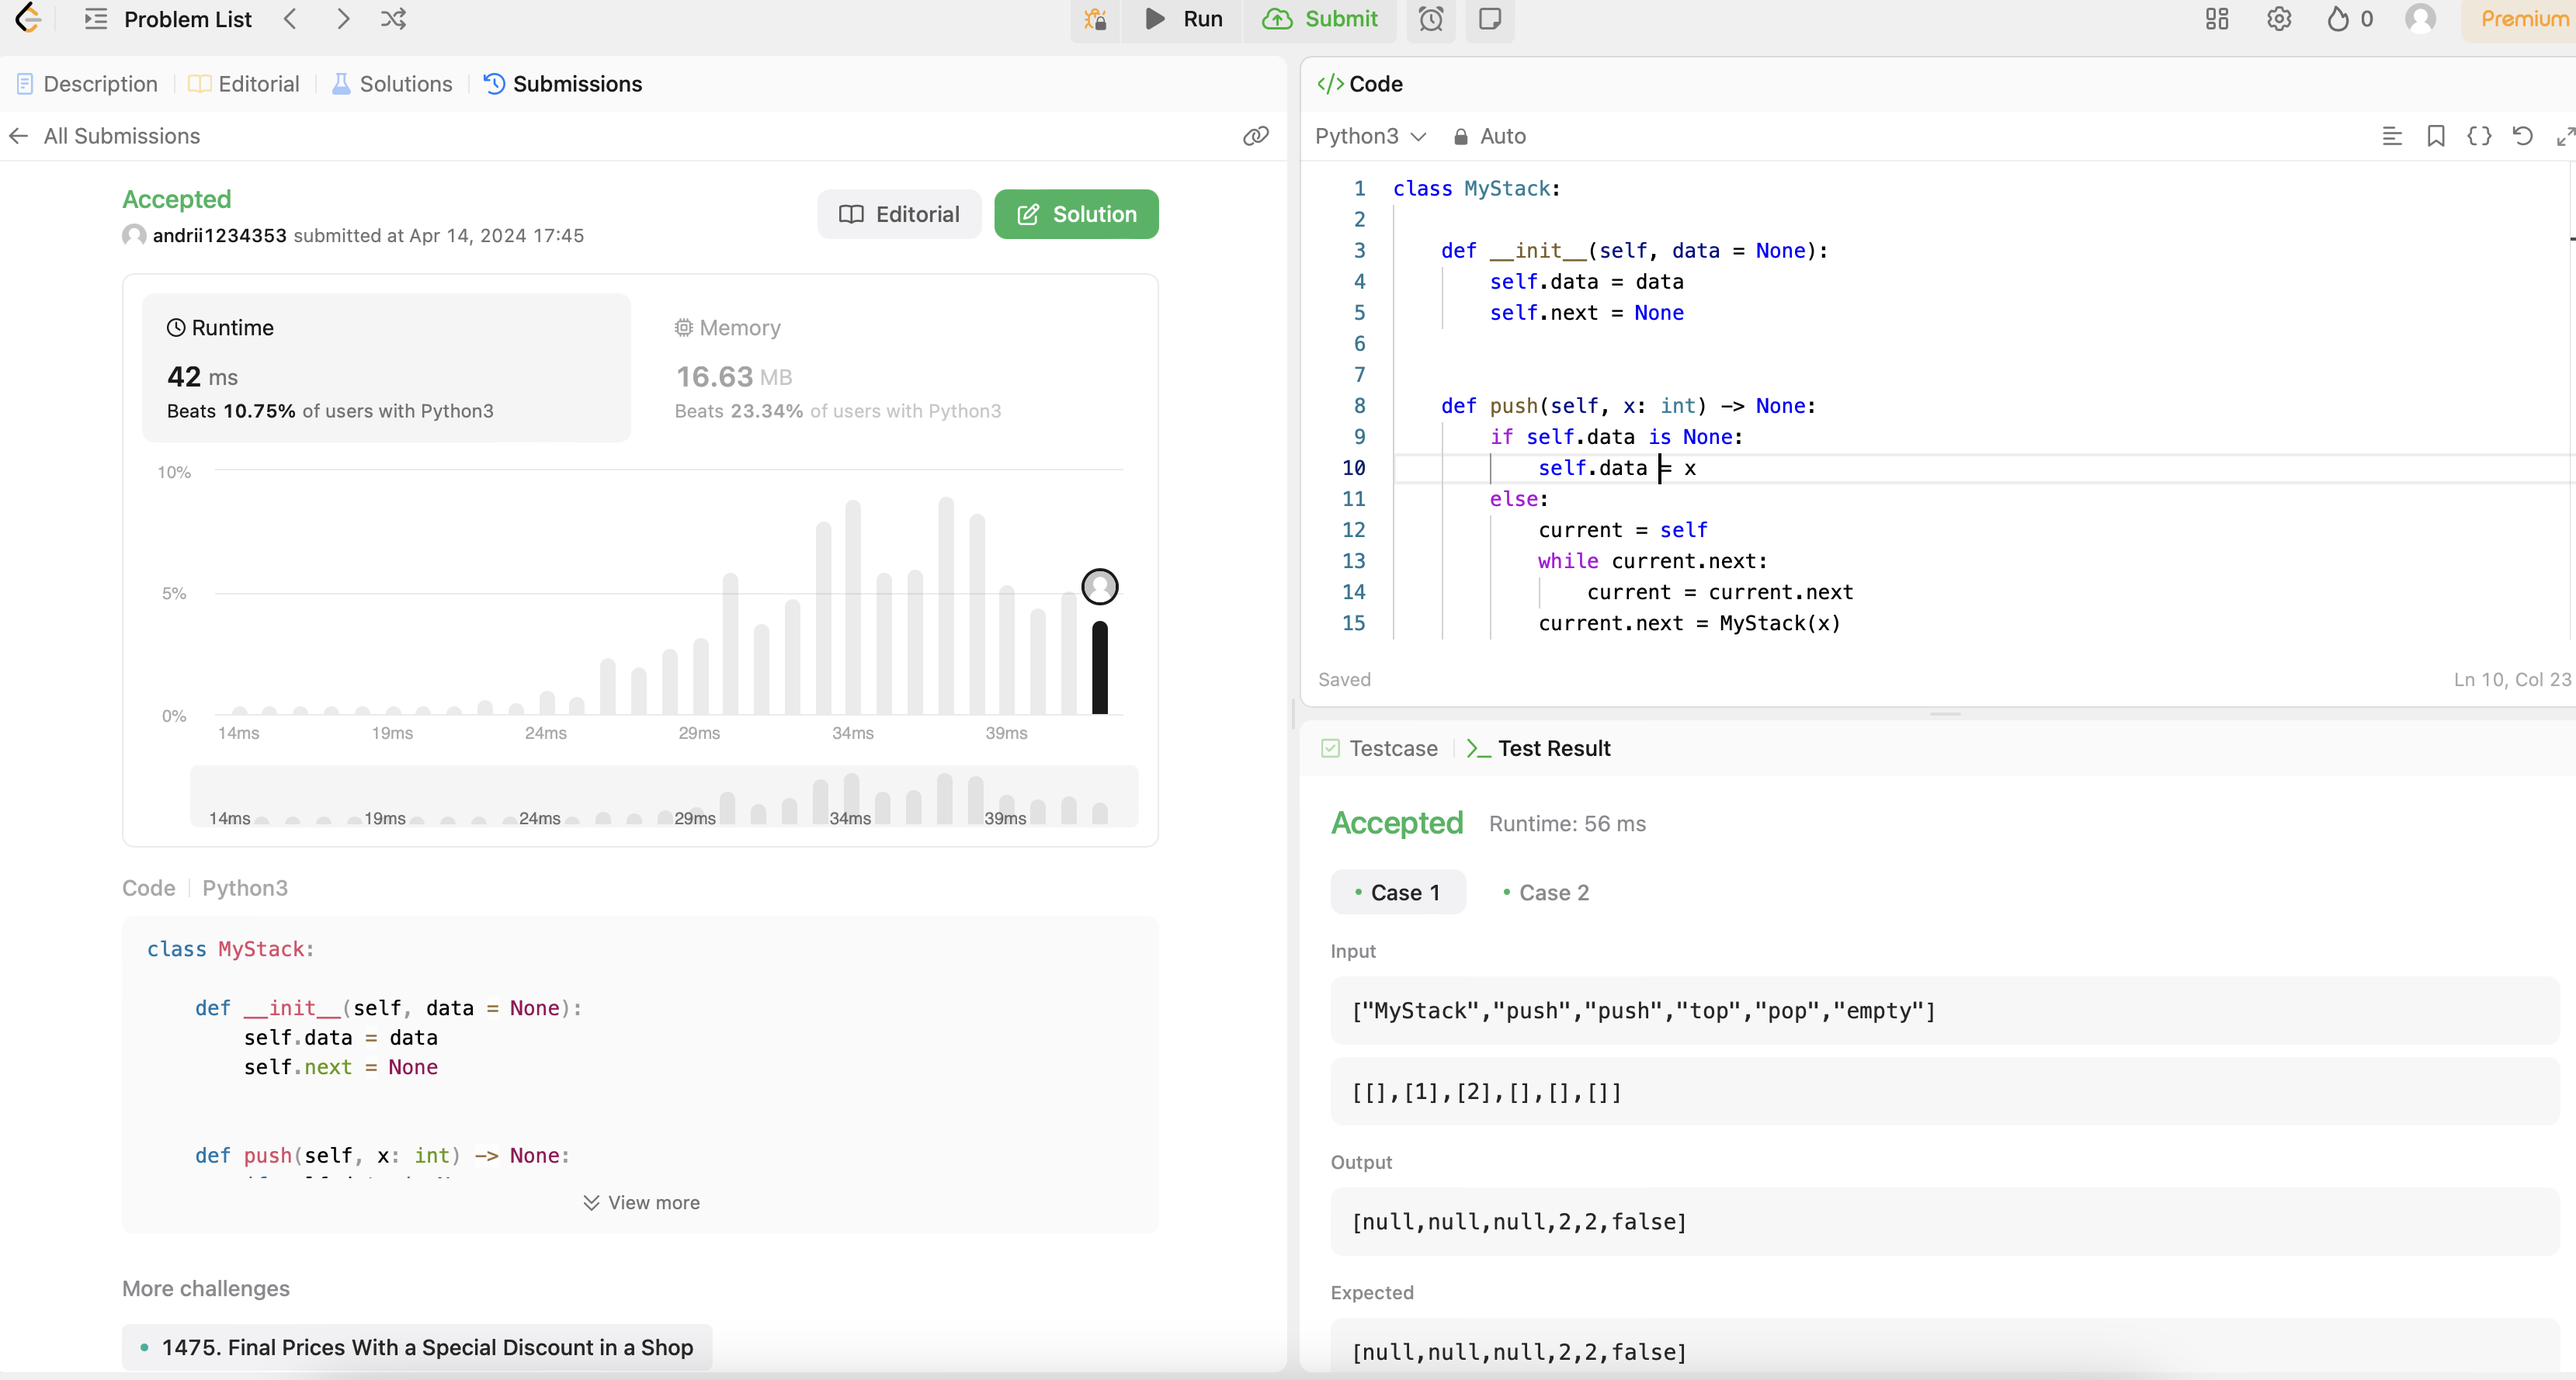
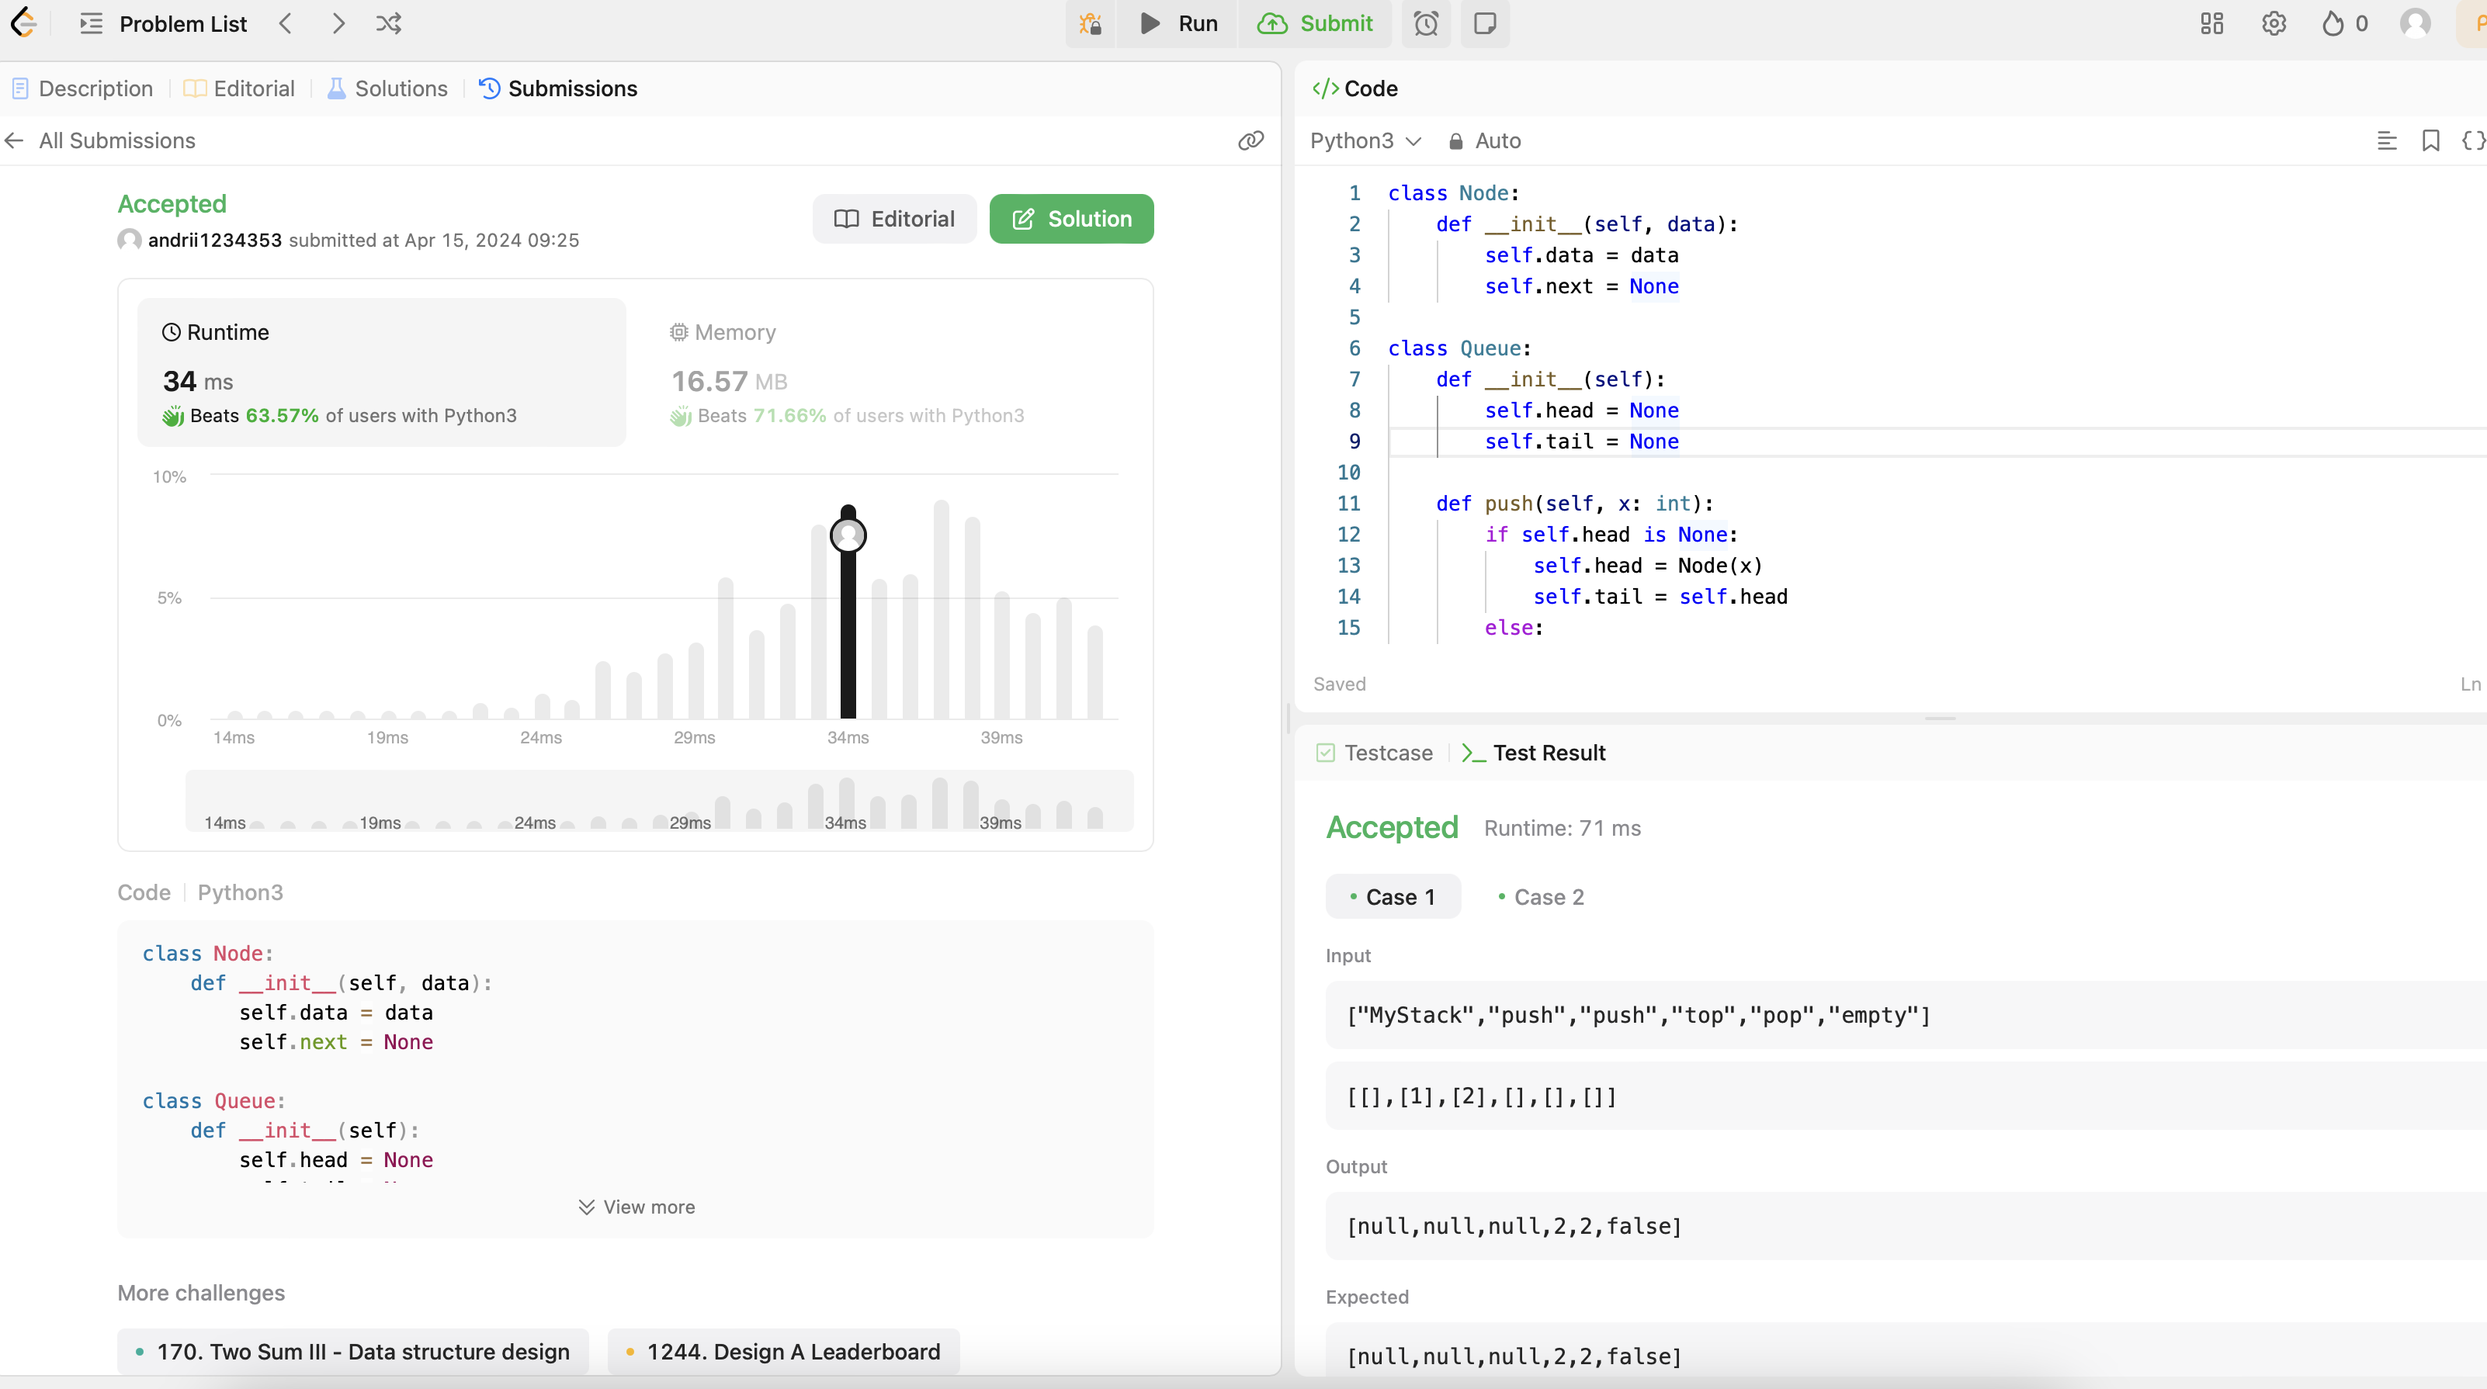
Remade task 2

diff --git a/Implement Stack using Queues/task.py b/Implement Stack using Queues/task.py
@@ -1,46 +1,68 @@
-class MyStack:
-
-    def __init__(self, data = None):
+class Node:
+    def __init__(self, data):
         self.data = data
         self.next = None
 
+class Queue:
+    def __init__(self):
+        self.head = None
+        self.tail = None
 
-    def push(self, x: int) -> None:
-        if self.data is None:
-            self.data = x
+    def push(self, x: int):
+        if self.head is None:
+            self.head = Node(x)
+            self.tail = self.head
         else:
-            current = self
+            current = self.head
             while current.next:
                 current = current.next
-            current.next = MyStack(x)
+            current.next = Node(x)
+            self.tail = current.next
+
+    def peek(self):
+        return self.head.data
+
+    def pop(self):
+        desired = self.head.data
+        new_head = self.head.next
+        if new_head is None:
+            self.head = None
+            self.tail = None
+        else:
+            self.head.data = new_head.data
+            self.head.next = new_head.next
+        return desired
+
+    def empty(self):
+        if self.head is None:
+            return True
+        return False
+
+class MyStack:
+
+    def __init__(self, data = None):
+        self.main = Queue()
+        self.sub = Queue()
+
+
+    def push(self, x: int) -> None:
+        while not self.main.empty():
+            self.sub.push(self.main.pop())
+        self.main.push(x)
+        while not self.sub.empty():
+            self.main.push(self.sub.pop())
 
 
     def pop(self) -> int:
-        current = self
-        if current.next is None:
-            desired = self.data
-            self.data = None
-            self.next = None
-            return desired
-
-        while current.next.next:
-            current = current.next
-        desired = current.next.data
-        current.next = None
-        return desired
+        return self.main.pop()
 
 
     def top(self) -> int:
-        current = self
-        while current.next:
-            current = current.next
-        return current.data
+        return self.main.peek()
 
 
     def empty(self) -> bool:
-        if self.data is None:
-            return True
-        return False
+        return self.main.empty()
 
 
 
